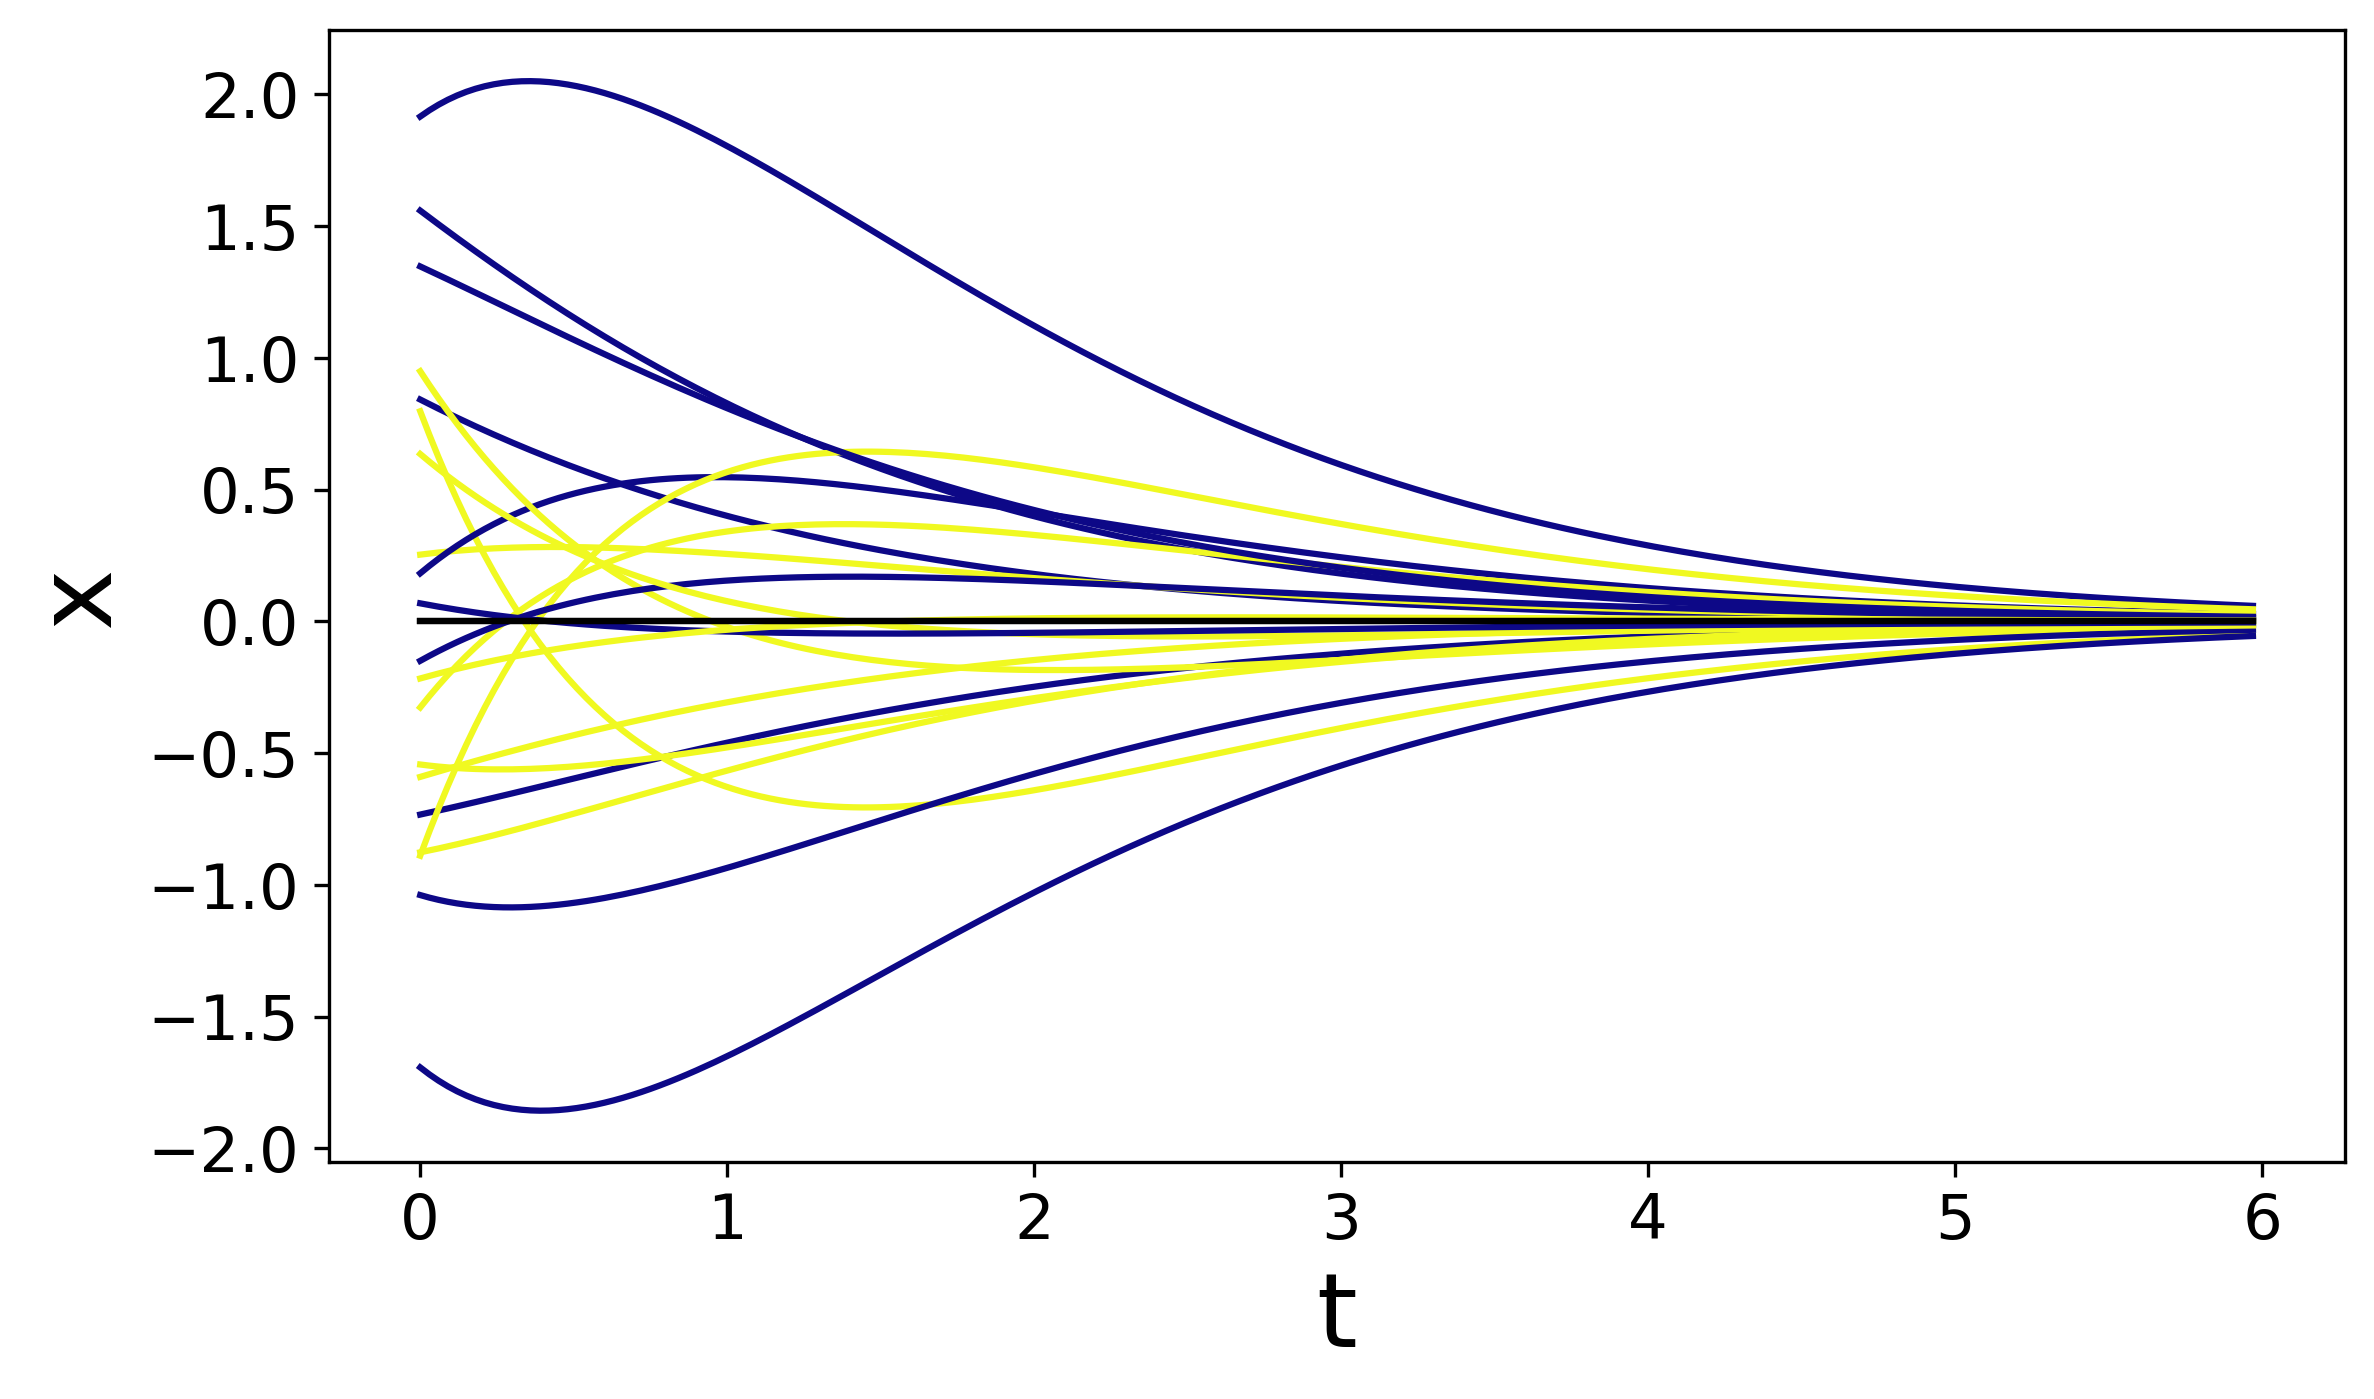
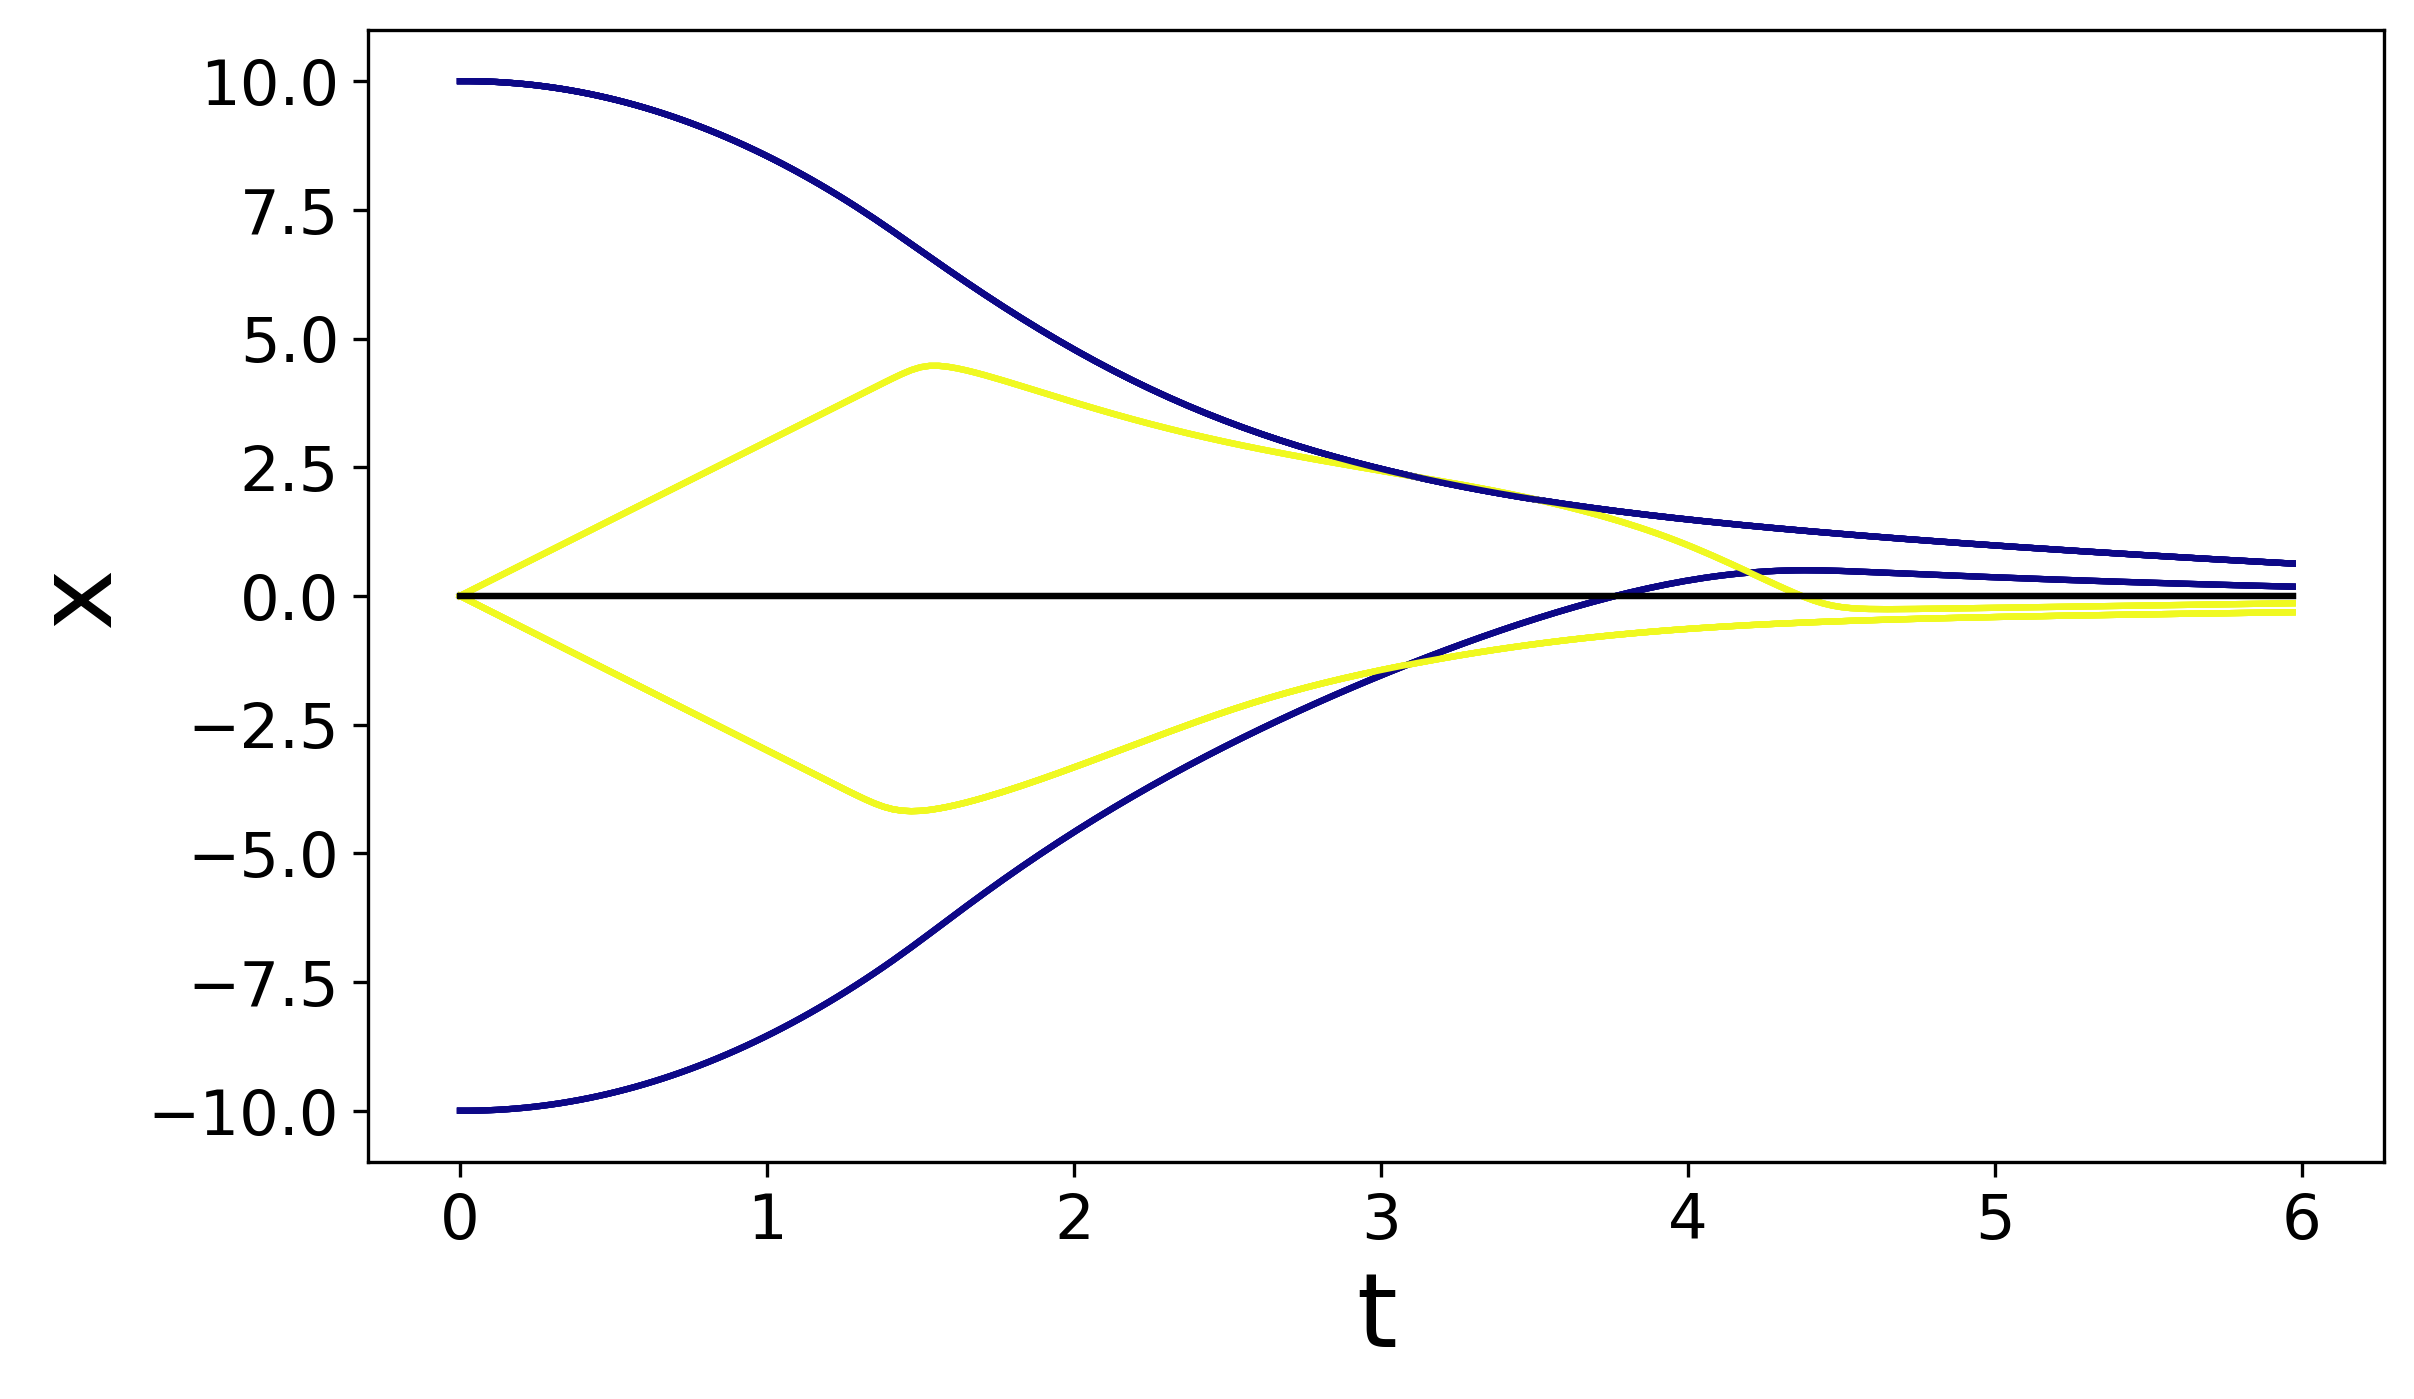
1D changes

diff --git a/models/model_1D.py b/models/model_1D.py
@@ -27,11 +27,8 @@ class U_FUNC(nn.Module):
 
         w1_xe = self.model_u_w1(torch.cat([x,xe],dim=1).squeeze(-1)).reshape(bs, self.num_dim_control, -1)
         w1_x0 = self.model_u_w1(torch.cat([x,torch.zeros(xe.shape).type(xe.type())],dim=1).squeeze(-1)).reshape(bs, self.num_dim_control, -1)
-        u = w1_xe - w1_x0 + uref
-        
-        # w1 = self.model_u_w1(torch.cat([x[:,effective_dim_start:effective_dim_end,:],(x-xe)[:,effective_dim_start:effective_dim_end,:]],dim=1).squeeze(-1)).reshape(bs, -1, self.num_dim_x)
-        # w2 = self.model_u_w2(torch.cat([x[:,effective_dim_start:effective_dim_end,:],(x-xe)[:,effective_dim_start:effective_dim_end,:]],dim=1).squeeze(-1)).reshape(bs, self.num_dim_control, -1)
-        # u = w2.matmul(torch.tanh(w1.matmul(xe))) + uref
+        u = 3*torch.tanh(w1_xe - w1_x0) + uref
+
         return u
 
 def get_model(num_dim_x, num_dim_control, w_lb, use_cuda = False):
@@ -82,3 +79,86 @@ def get_model(num_dim_x, num_dim_control, w_lb, use_cuda = False):
     u_func = U_FUNC(model_u_w1, model_u_w2, num_dim_x, num_dim_control)
 
     return model_W, model_Wbot, model_u_w1, model_u_w2, W_func, u_func
+
+
+# import torch
+# from torch import nn
+# from torch.autograd import grad
+# import numpy as np
+
+# # States that are used in the model
+# effective_dim_start = 0
+# effective_dim_end = 2
+
+
+# class U_FUNC(nn.Module):
+#     """docstring for U_FUNC."""
+
+#     def __init__(self, model_u_w1, model_u_w2, num_dim_x, num_dim_control):
+#         super(U_FUNC, self).__init__()
+#         self.model_u_w1 = model_u_w1
+#         self.model_u_w2 = model_u_w2
+#         self.num_dim_x = num_dim_x
+#         self.num_dim_control = num_dim_control
+
+#     def forward(self, x, xe, uref):
+#         # x: B x n x 1
+#         # u: B x m x 1
+#         bs = x.shape[0]
+
+#         w1 = self.model_u_w1(torch.cat([x[:,effective_dim_start:effective_dim_end,:],(x-xe)[:,effective_dim_start:effective_dim_end,:]],dim=1).squeeze(-1)).reshape(bs, -1, self.num_dim_x)
+#         w2 = self.model_u_w2(torch.cat([x[:,effective_dim_start:effective_dim_end,:],(x-xe)[:,effective_dim_start:effective_dim_end,:]],dim=1).squeeze(-1)).reshape(bs, self.num_dim_control, -1)
+#         u = 3*torch.tanh(w2.matmul(torch.tanh(w1.matmul(xe)))) + uref
+
+#         return u
+
+
+# def get_model(num_dim_x, num_dim_control, w_lb, use_cuda=False):
+#     dim = effective_dim_end - effective_dim_start
+#     model_Wbot = torch.nn.Sequential(
+#         torch.nn.Linear(dim-num_dim_control, 128, bias=True),
+#         torch.nn.Tanh(),
+#         torch.nn.Linear(128, (num_dim_x-num_dim_control) ** 2, bias=False))
+
+#     model_W = torch.nn.Sequential(
+#         torch.nn.Linear(dim, 128, bias=True),
+#         torch.nn.Tanh(),
+#         torch.nn.Linear(128, num_dim_x * num_dim_x, bias=False))
+
+#     c = 3 * num_dim_x
+#     model_u_w1 = torch.nn.Sequential(
+#         torch.nn.Linear(2*dim, 128, bias=True),
+#         torch.nn.Tanh(),
+#         torch.nn.Linear(128, c*num_dim_x, bias=True))
+
+#     model_u_w2 = torch.nn.Sequential(
+#         torch.nn.Linear(2*dim, 128, bias=True),
+#         torch.nn.Tanh(),
+#         torch.nn.Linear(128, num_dim_control*c, bias=True))
+
+#     if use_cuda:
+#         model_W = model_W.cuda()
+#         model_Wbot = model_Wbot.cuda()
+#         model_u_w1 = model_u_w1.cuda()
+#         model_u_w2 = model_u_w2.cuda()
+
+#     def W_func(x):
+#         bs = x.shape[0]
+#         x = x.squeeze(-1)
+
+#         W = model_W(x[:, effective_dim_start:effective_dim_end]).view(bs, num_dim_x, num_dim_x)
+        
+#         # Assuming the B(x) is structured as follows:
+#         # B(x) = [0, b(x)], where b(x) is invertible
+#         Wbot = model_Wbot(x[:, effective_dim_start:effective_dim_end-num_dim_control]).view(bs, num_dim_x-num_dim_control, num_dim_x-num_dim_control)
+#         W[:, 0:num_dim_x-num_dim_control, 0:num_dim_x-num_dim_control] = Wbot
+#         W[:, num_dim_x-num_dim_control::, 0:num_dim_x-num_dim_control] = 0
+
+#         W = W.transpose(1,2).matmul(W)
+#         W = W + w_lb * torch.eye(num_dim_x).view(1, num_dim_x, num_dim_x).type(x.type())
+        
+#         return W
+
+#     u_func = U_FUNC(model_u_w1, model_u_w2, num_dim_x, num_dim_control)
+
+#     return model_W, model_Wbot, model_u_w1, model_u_w2, W_func, u_func

diff --git a/main.py b/main.py
@@ -202,7 +202,7 @@ def forward(x, xref, uref, _lambda, verbose=False, acc=False, detach=False):
     
     # Add a penalty for control inputs larger than 3
     control_penalty = torch.relu(u.abs() - 3).pow(2).sum(dim=1).mean()
-    loss += 1. * control_penalty
+    # loss += 1. * control_penalty
 
     if verbose:
         print(torch.symeig(Contraction)[0].min(dim=1)[0].mean(), torch.symeig(Contraction)[0].max(dim=1)[0].mean(), torch.symeig(Contraction)[0].mean())
@@ -287,7 +287,7 @@ if args.resume is not None:
     optimizer.load_state_dict(checkpoint['optimizer'])
     start_epoch = checkpoint['epoch'] + 1
     precs = checkpoint['precs']
-    print("Loaded model with loss/p1/p2/l3: ", precs)
+    print("Loaded model with loss/p1/p2/l3/c4: ", precs)
 
 for epoch in range(start_epoch, args.epochs):
     adjust_learning_rate(optimizer, epoch)
@@ -302,7 +302,7 @@ for epoch in range(start_epoch, args.epochs):
         filename_controller = args.log+'/controller_best.pth.tar'
         torch.save({
             'args': args,
-            'precs': (loss, p1, p2, l3),
+            'precs': (loss, p1, p2, l3, c4),
             'model_W': model_W.state_dict(),
             'model_Wbot': model_Wbot.state_dict(),
             'model_u_w1': model_u_w1.state_dict(),

diff --git a/plot.py b/plot.py
@@ -81,7 +81,8 @@ if __name__ == '__main__':
     errors = []
     xinits = []
     for _ in range(args.nTraj):
-        xe_0 = XE_INIT_MIN + np.random.rand(len(XE_INIT_MIN)) * (XE_INIT_MAX - XE_INIT_MIN)
+        # xe_0 = XE_INIT_MIN + np.random.rand(len(XE_INIT_MIN)) * (XE_INIT_MAX - XE_INIT_MIN) # Randomly sample XE_init
+        xe_0 = XE_INIT_MIN + np.round(np.random.rand(len(XE_INIT_MIN))) * (XE_INIT_MAX) * 2 # Only plot XE_init_min and XE_init_max
         xinit = xstar_0 + xe_0.reshape(-1,1)
         xinits.append(xinit)
         x, u = EulerIntegrate(controller, f, B, xstar,ustar,xinit,time_bound,time_step,with_tracking=True,sigma=args.sigma)
@@ -125,6 +126,8 @@ if __name__ == '__main__':
         plt.xlabel("t")
         plt.ylabel("error")
     elif args.plot_type=='control':
+        for i in range(num_dim_control):
+            plt.plot(t, [u[i,0] for u in ustar], 'k')
         plt.xlabel("t")
         plt.ylabel("u")
     

diff --git a/metric_verification.py b/metric_verification.py
@@ -50,7 +50,7 @@ model_path = args.pretrained + '/model_best.pth.tar'
 checkpoint = torch.load(model_path, map_location=torch.device('cpu'))
 
 # Access the items
-loss, p1, p2, l3 = checkpoint['precs']
+loss, p1, p2, l3, c4 = checkpoint['precs']
 model_W_state = checkpoint['model_W']
 model_Wbot_state = checkpoint['model_Wbot']
 model_u_w1_state = checkpoint['model_u_w1']

diff --git a/configs/config_1D.py b/configs/config_1D.py
@@ -21,8 +21,8 @@ UREF_MAX = np.array([ 1.]).reshape(-1,1)
 X_INIT_MIN = np.array([0., 0.])
 X_INIT_MAX = np.array([0., 0.])
 
-XE_INIT_MIN = np.array([-10, -1.])
-XE_INIT_MAX = np.array([ 10, 1.])
+XE_INIT_MIN = np.array([-10, 0.])
+XE_INIT_MAX = np.array([ 10, 0.])
 
 time_bound = 6.
 time_step = 0.03
